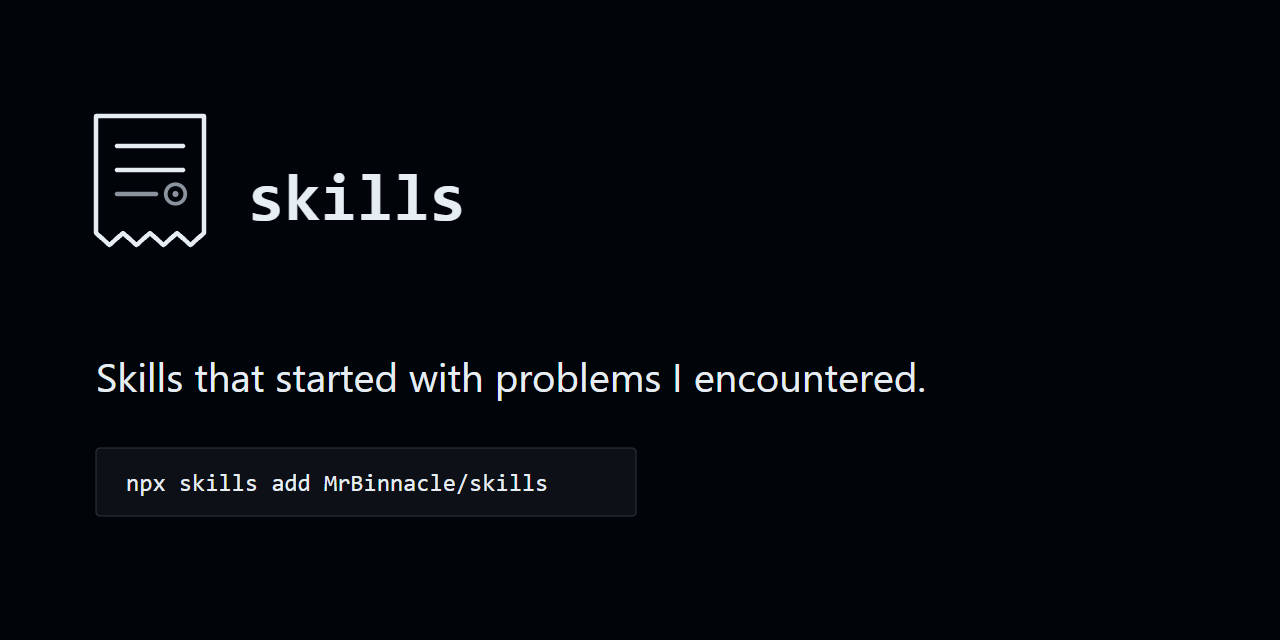
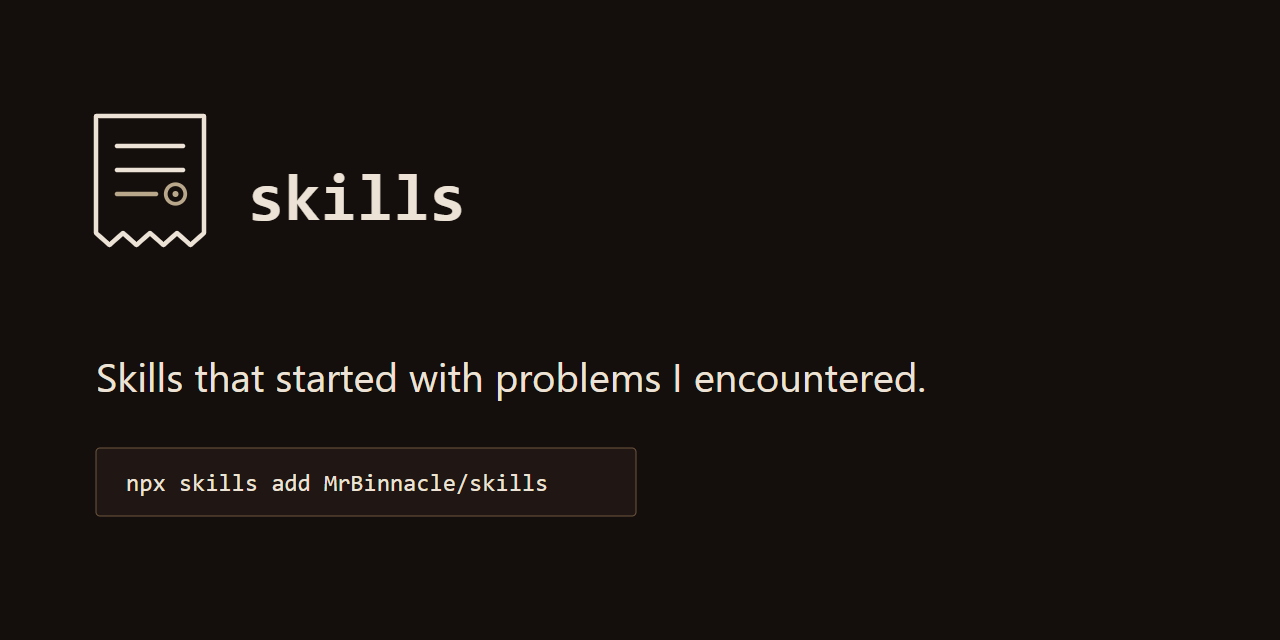
style(brand): recolour the site and brand assets onto the owner's field palette
The landing page, the token file and the four colour-bearing SVGs move off
the GitHub Primer sets onto the owner's field palette: warm light for the
light scheme, dark wood for the dark scheme, and one moss-green accent on
focus and hover only. Palette only: no text node, aria-label, layout, type
or mark geometry changes.

- assets/tokens.json: structural and structural_light take the new values
  under the same keys; the crib group is retired for field (seven
  primitives), accent (light, dark) and state (admitted, turned_away,
  retired); usage_rules 1 and 2 restate the one-accent and borrowed-colour
  rules.
- site/style.css and site/index.html: both schemes and the theme-color
  metas; the dark block gains its own lifted accent, because the light
  accent measures 2.93:1 on the dark ground.
- assets/social-preview.svg, banner-dark.svg, banner-light.svg,
  favicon.svg: fill and stroke values only. social-preview.png is
  re-exported at 1280x640 and the pair's two hashes re-recorded.
- DESIGN.md: the dressing rule names borrowed state colour rather than
  instrument green, the currentColor rationale no longer claims dark-only
  neutrals, and state reads through the state tokens.
- scripts/test_validate_brand_kit.py: INSTRUMENT_PALETTE also refuses the
  sibling instrument's new accent #adb78c on the banners.

Contrast, measured on the rendered page: ink on ground 14.14 light and
15.05 dark; muted 6.27 and 8.14; focus ring 6.06 and 5.33.

diff --git a/site/style.css b/site/style.css
@@ -1,17 +1,22 @@
 /* skills landing page.
  *
- * Every colour below is a value declared under assets/tokens.json > color.
- * Light mode is the default and uses color.structural_light; dark mode uses
- * color.structural, switched by prefers-color-scheme with no toggle and no
- * script. One accent, crib.sage #6B6B50 ("governed or active utility
- * accent"), appears in exactly two state roles: the :focus-visible outline
- * and the :hover underline colour. It never carries text or an icon
- * (5.46:1 on light.bg, 3.76:1 on repo.bg: clears the 3:1 non-text floor in
- * both modes and not the 4.5:1 text floor in dark).
+ * Every colour below is a value declared under assets/tokens.json > color,
+ * all of them derived from the owner's field palette. Light mode is the
+ * default and uses color.structural_light; dark mode uses color.structural,
+ * switched by prefers-color-scheme with no toggle and no script. Each scheme
+ * is composed on its own, not inverted from the other.
+ *
+ * One accent, moss, appears in exactly two state roles: the :focus-visible
+ * outline and the :hover underline colour. It never carries text, an icon,
+ * a fill or a state. It keeps one hue across the schemes: accent.light
+ * #5A613F on light (6.06:1 on light.bg, 5.56:1 on light.surface) and
+ * accent.dark #828C5B on dark (5.33:1 on repo.bg, 4.90:1 on repo.surface),
+ * lifted because #5A613F measures 2.93:1 on repo.bg. Both clear the 3:1
+ * non-text floor.
  *
  * Text pairs, the only four used:
- *   light.ink   on light.bg  15.80    repo.ink   on repo.bg  17.38
- *   light.muted on light.bg   6.39    repo.muted on repo.bg   6.68
+ *   light.ink   on light.bg  14.14    repo.ink   on repo.bg  15.05
+ *   light.muted on light.bg   6.27    repo.muted on repo.bg   8.14
  *
  * Radius scale (tokens.json > shape), one documented use per value:
  *   radius.none  0    -> layout, rules, list items, links
@@ -25,12 +30,12 @@
  */
 
 :root {
-  --bg: #FFFFFF;        /* light.bg */
-  --surface: #F6F8FA;   /* light.surface */
-  --ink: #1F2328;       /* light.ink */
-  --muted: #57606A;     /* light.muted */
-  --line: #D0D7DE;      /* light.line */
-  --accent: #6B6B50;    /* crib.sage: focus ring and hover underline only */
+  --bg: #FAF6EF;        /* light.bg */
+  --surface: #F2ECE3;   /* light.surface */
+  --ink: #31221E;       /* light.ink */
+  --muted: #6F573F;     /* light.muted */
+  --line: #B8A78B;      /* light.line */
+  --accent: #5A613F;    /* accent.light: focus ring and hover underline only */
 
   --font-body: Inter, -apple-system, BlinkMacSystemFont, "Segoe UI", sans-serif;
   --font-mono: ui-monospace, "SFMono-Regular", Consolas, "Liberation Mono", monospace;
@@ -52,11 +57,12 @@
 
 @media (prefers-color-scheme: dark) {
   :root {
-    --bg: #010409;      /* repo.bg */
-    --surface: #0D1117; /* repo.surface */
-    --ink: #E6EDF3;     /* repo.ink */
-    --muted: #8B949E;   /* repo.muted */
-    --line: #30363D;    /* repo.line */
+    --bg: #140E0C;      /* repo.bg */
+    --surface: #201714; /* repo.surface */
+    --ink: #ECE3D6;     /* repo.ink */
+    --muted: #B8A78B;   /* repo.muted */
+    --line: #6F573F;    /* repo.line */
+    --accent: #828C5B;  /* accent.dark: focus ring and hover underline only */
   }
 }
 

diff --git a/site/index.html b/site/index.html
@@ -19,8 +19,8 @@
   <meta property="og:image:alt" content="MRBINNACLE / skills">
   <meta name="twitter:image:alt" content="MRBINNACLE / skills">
   <meta name="twitter:card" content="summary_large_image">
-  <meta name="theme-color" media="(prefers-color-scheme: light)" content="#FFFFFF">
-  <meta name="theme-color" media="(prefers-color-scheme: dark)" content="#010409">
+  <meta name="theme-color" media="(prefers-color-scheme: light)" content="#FAF6EF">
+  <meta name="theme-color" media="(prefers-color-scheme: dark)" content="#140E0C">
   <meta name="color-scheme" content="light dark">
   <link rel="icon" href="assets/favicon.svg" type="image/svg+xml">
   <link rel="icon" href="favicon-32.png" sizes="32x32" type="image/png">

diff --git a/scripts/test_validate_brand_kit.py b/scripts/test_validate_brand_kit.py
@@ -62,7 +62,7 @@ FAILURES: list[str] = []
 ONE_BREACH = "REJECTED: 1 brand kit breach(es)"
 
 # The sibling instrument's semantic palette. Neither banner may wear it.
-INSTRUMENT_PALETTE = ("#3fb950", "#2da44e", "#d29922", "#58a6ff")
+INSTRUMENT_PALETTE = ("#3fb950", "#2da44e", "#d29922", "#58a6ff", "#adb78c")
 
 BASELINE_SVG = (
     '<svg xmlns="http://www.w3.org/2000/svg" width="100" height="40" role="img"'

diff --git a/DESIGN.md b/DESIGN.md
@@ -23,10 +23,10 @@ A skill being kept is an inventory fact. A skill having been measured is an evid
 move that makes the first look like the second is dressing, and it breaks the only claim the
 repository makes. Most rules below are one application of it:
 
-- **Instrument green is dressing.** `harness.prompt` `#3FB950`, `harness.flagged` `#D29922`,
-  `harness.cantTell` `#58A6FF` belong to `skill-harness`. Green reads as a confirmed-success
-  state on the instrument. It is the sharpest available way to dress this repository's
-  inventory, which is why it is the one colour rule stated as an absolute.
+- **Borrowed state colour is dressing.** A colour that marks success, measurement or verdict on
+  the sibling instrument, or any value it declares, dresses this repository's inventory as a
+  measurement. That is the one colour rule stated as an absolute. The moss accent is green and
+  carries no state; it marks focus and hover and nothing else.
 - **Monospace is dressing when it is decorative.** The mono/sans split is semantic: mono marks a
   value that came from somewhere checkable — a count, a verdict, a command, an identifier. Prose
   that merely describes those things stays in the sans face. Setting a claim in mono to make it
@@ -67,7 +67,7 @@ Two gaps closed on 2026-09-06, each a receipt under `tokens.json > closed_gaps`:
 
 **Author new marks with `currentColor`**, not a literal hex. A file with no hex cannot violate a
 token set, needs no light-mode neutral to exist, and inherits on either surface — which matters
-because the kit declares dark-surface neutrals only. *Revisit if:* light-mode neutrals land, or
+because a mark that inherits ink stays correct in both schemes. *Revisit if:* light-mode neutrals land, or
 an asset needs more than one ink value.
 
 `currentColor` does not survive `<img src="…">`; an asset embedded that way renders black. Use
@@ -130,8 +130,9 @@ re-dereferenced on 2026-10-02 for issue #334; line references rot.
 - **`aria-label` is a claim surface.** Every shipped SVG carries `role="img"` and a meaningful
   label, and `validate_scoreboard.py` checks the banners' labels against ground truth. Drift in a
   label is drift in a claim, not a cosmetic slip.
-- **State reads without colour.** The crib palette encodes admitted / turned-away / retired; each
-  must also be readable as text or shape.
+- **State reads without colour.** The `state` tokens encode admitted / turned-away / retired;
+  each must also be readable as text or shape. They measure below the normal-vision floor as a
+  set, so colour is never the carrier.
 - Both banners ship light and dark variants through `<picture>`. New surfaces follow that.
 
 ---

diff --git a/.changeset/field-palette-site-brand.md b/.changeset/field-palette-site-brand.md
@@ -1,0 +1,11 @@
+---
+"mrbinnacle-skills": patch
+---
+
+style(brand): recolour the landing page and the brand assets onto the owner's field palette. The
+light scheme becomes warm light, the dark scheme becomes dark wood, and the one accent becomes moss
+green on focus and hover only. `assets/tokens.json` replaces the GitHub Primer sets and retires the
+`crib` group for `field`, `accent` and `state`. The social preview, both banners and the favicon
+are recoloured with every text node and label byte-identical, and the social-preview PNG is
+re-exported with its hash pair re-recorded. Patch, under ADR 0002's surface rules: neither the
+install path, the card format nor any card name changes, so this touches no declared surface.
